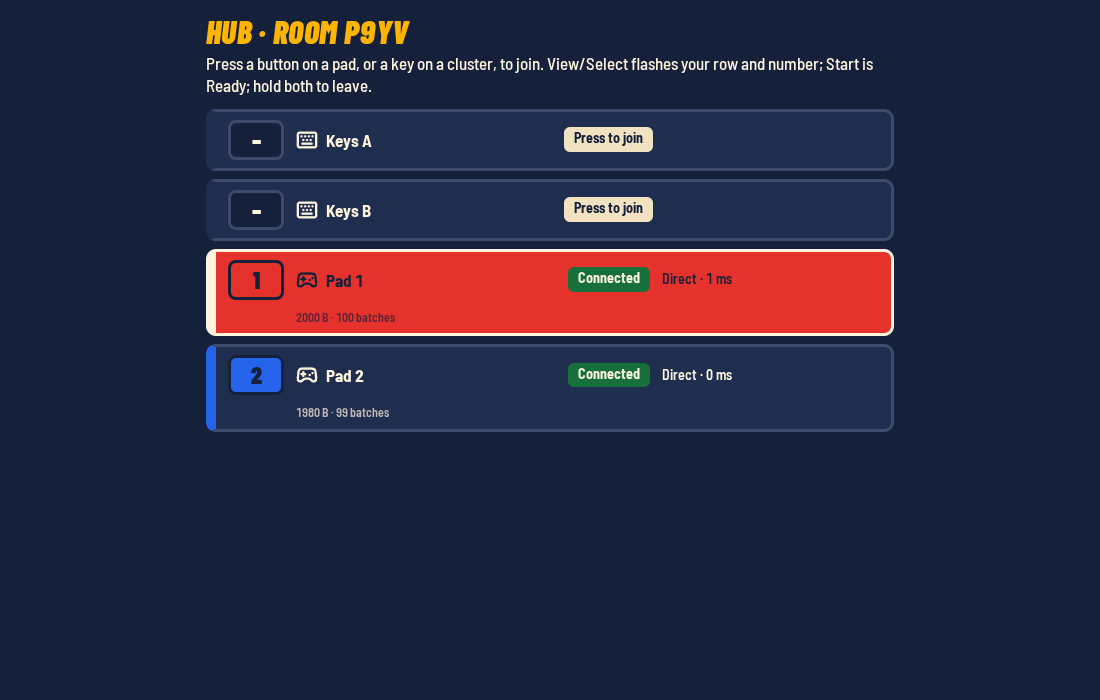
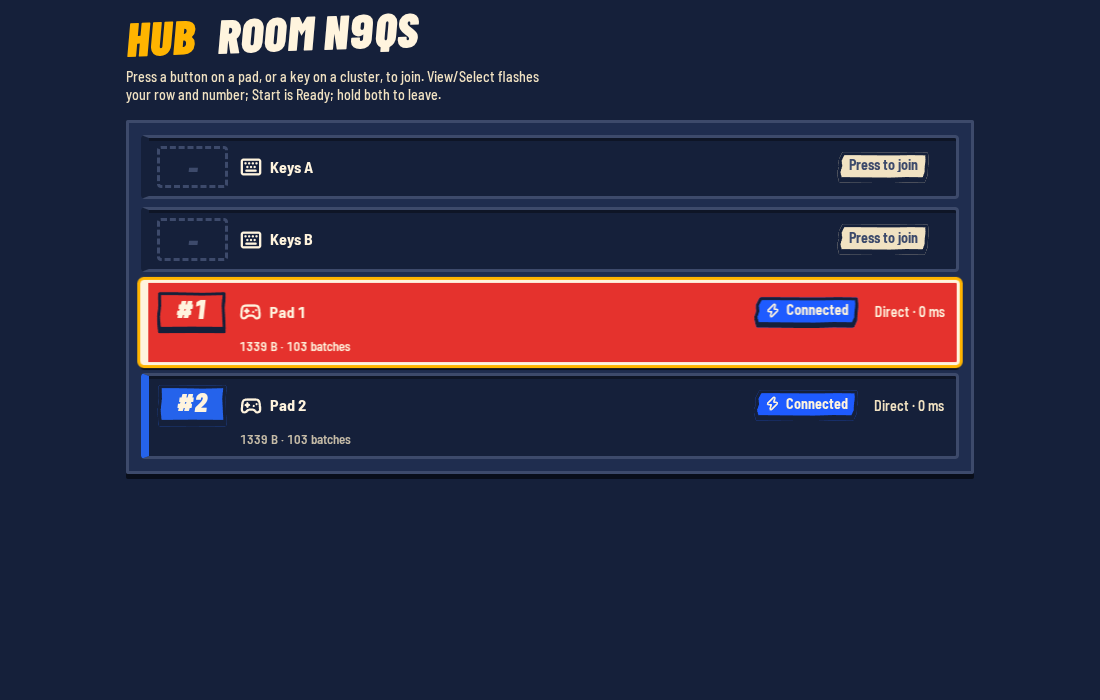
P1-C08: B/hub route (the hub's code entry), self-review and captures for the one-connection hub; P1-R06 self-review

Changed region(s): [[0.0927, 0.0, 0.8964, 0.69]]

diff --git a/web/controller/src/hub/hub.ts b/web/controller/src/hub/hub.ts
@@ -8,6 +8,7 @@
 // a `Session` attached to it (`Session.attach`) that claims, identifies, readies, leaves and drops out under its own
 // source handle (`ForSource`), and all their input shares the carrier's batches. A phone with a paired pad carries its pads
 // on the phone's own connection (the phone's sticks are the primary source).
+import { basePath } from '../../../shared/src/base';
 import { icon, tokenData } from '../../../shared/ui';
 import { Session } from '../app/session';
 import { pathLabel } from './badge';
@@ -349,4 +350,27 @@ export function pairPads(session: Session, tray: HTMLElement): Hub {
   hub.start();
   (window as unknown as { __jjHub: unknown }).__jjHub = { inspect: () => hub.inspect(), hub };
   return hub;
+}
+
+/** `B/hub`: ask for the room's code, then open the hub for it (`B/j/<CODE>?hub`). */
+export function mountHubEntry(root: HTMLElement): void {
+  root.innerHTML = `<section class="hub hub-entry" data-hub-entry>
+    <header class="hub-head"><h1 class="display italic">Hub</h1><p>Pads and keys on this device, one seat each. Type the room code from the big screen.</p></header>
+    <form class="panel panel-ink hub-panel" data-hub-form><label for="hub-code">Room code</label>
+    <input class="field code" id="hub-code" name="code" type="text" inputmode="text" autocomplete="off" autocapitalize="characters" autocorrect="off" spellcheck="false" enterkeyhint="go" maxlength="4" placeholder="ABCD" />
+    <p class="hub-entry-error" data-hub-error role="alert" hidden>That is not a room code: four letters or numbers.</p>
+    <button type="submit" class="btn primary big">Open the hub</button></form></section>`;
+  const form = root.querySelector<HTMLFormElement>('[data-hub-form]')!;
+  const input = root.querySelector<HTMLInputElement>('#hub-code')!;
+  const error = root.querySelector<HTMLElement>('[data-hub-error]')!;
+  form.addEventListener('submit', (e) => {
+    e.preventDefault();
+    const code = input.value.trim().toUpperCase();
+    if (!/^[A-Z0-9]{4}$/.test(code)) {
+      error.hidden = false;
+      return;
+    }
+    location.assign(`${basePath()}j/${code}?hub`);
+  });
+  input.focus();
 }

diff --git a/web/controller/src/main.ts b/web/controller/src/main.ts
@@ -26,6 +26,13 @@ function mountTray(): HTMLElement {
 async function boot(root: HTMLElement): Promise<void> {
   if (params.has('hello')) return (await import('./hello/hello')).mountHello(root);
   const code = codeFromPath();
+  // `B/hub`: the hub's own entry (C08), a room code then the hub page for it.
+  if (!code && /^hub\/?$/.test(location.pathname.slice(basePath().length))) {
+    applyProfile();
+    (await import('./hub/hub')).mountHubEntry(root);
+    document.documentElement.dataset.jjController = 'ready';
+    return;
+  }
   if (!code) {
     // No code in the URL: the landing page's join card asks for one.
     location.replace(basePath());

diff --git a/web/controller/src/hub/hub.css b/web/controller/src/hub/hub.css
@@ -51,3 +51,7 @@
 /* The phone's connection badge (the strip's [data-hud=conn]): the kit's brushed chip, small. */
 .conn.chip { min-height: 2em; margin-right: 10px; padding: 0 .9em .3em; font-size: var(--fs-caption); font-style: normal; text-transform: none; letter-spacing: 0; }
 .conn.chip .ic { width: 1.1em; height: 1.1em; }
+
+.hub-entry .hub-panel { display: grid; gap: 12px; padding: 16px; }
+.hub-entry .field.code { text-transform: uppercase; letter-spacing: .2em; text-align: center; font-size: 28px; }
+.hub-entry-error { color: var(--c-warn, #ffb4a8); margin: 0; }

diff --git a/crates/jj-server/src/app.rs b/crates/jj-server/src/app.rs
@@ -175,7 +175,7 @@ impl App {
         match (req.method.as_str(), rest) {
             (_, "") if get => self.bundle.page(Page::Landing),
             (_, "host" | "host/") if get => self.bundle.page(Page::Host),
-            (_, "c" | "c/") if get => self.bundle.page(Page::Controller),
+            (_, "c" | "c/" | "hub" | "hub/") if get => self.bundle.page(Page::Controller),
             (_, r) if get && r.starts_with("j/") && RoomCode::parse(&r[2..]).is_some() => {
                 self.bundle.page(Page::Controller)
             }

diff --git a/crates/jj-server/src/tests.rs b/crates/jj-server/src/tests.rs
@@ -167,6 +167,7 @@ fn serves_pages_and_immutable_assets_under_a_preview_base_with_real_404s() {
             ("", "landing"),
             ("host", "host"),
             ("c", "controller"),
+            ("hub", "controller"),
             ("j/ABCD", "controller"),
             ("j/abcd", "controller"),
         ] {

diff --git a/docs/evidence/P1-C08/self-review.md b/docs/evidence/P1-C08/self-review.md
@@ -4,6 +4,8 @@ Captures: `c08-hub.test.mjs` with `JJ_CAPTURE_DIR` on eris (Chromium, run `cap4`
 
 ## Looked at
 - Hub page: heading "Hub · room XXXX" with the one-line instructions, a row per source (seat number in its colour, keyboard or gamepad icon, label, state chip, direct/relay and RTT, bytes and batches). Idle key clusters read "Press to join" with a dash for the seat.
+- `c08-hub-four-sources-*` and `c08-hub-pad1-unplugged-1100x700.png`: six rows on one hub page (Keys A, Keys B, four pads) each with its number in its colour, Connected, "Direct · 3 ms" and its own bytes; with pad 1 unplugged only its row turns to the orange Unplugged chip with a dashed outline and the other five stay Connected. Resized to 390x844, 844x390 and 1920x1080 and back, all six rows stay readable.
+- `B/hub` entry (`c08-hub-entry-then-hub-1100x700.png`): a room-code field and "Open the hub"; a bad code shows the red line and stays.
 - Identify flash: only Pad 1's row turns its colour (red) with dark text, Pad 2 stays calm.
 - Phone with a paired pad: a slim tray low and centred between the sticks ("This phone" and "Pad 1", each with its number, icon and Connected chip); the strip shows the "Direct · 1 ms" badge. Landscape and portrait.
 
@@ -12,14 +14,15 @@ Captures: `c08-hub.test.mjs` with `JJ_CAPTURE_DIR` on eris (Chromium, run `cap4`
 - Row icons were solid squares (markup quoting); they are now added as elements.
 - The phone tray covered the sticks and the tutorial; now a slim touch-transparent list.
 - Seat badges rendered "#" as "//": badge shows the plain number.
-- A sixth simultaneous join stalled; sources now join one at a time and a stalled join retries after 12 s.
+- A sixth simultaneous join stalled (each source was its own connection); with one connection every source joins at once.
 
-## Remaining defects (protocol and server gaps, reported to the lead)
-- **Not one connection.** The protocol seats one endpoint with one seat (`jj-session` `Endpoint.seat`; Claim, Ready, Identify, Leave address the connection), so each hub source is its own endpoint with its own signalling stream and peer link. The AC "six seats over one connection" and the per-endpoint N08 receipt are unmet until the host supports a multi-source Claim.
-- **Browser connection limit.** Because of the above, a hub page holds one stream per source and HTTP/1.1 allows six per origin, so a single page carries five sources locally (the sixth's signalling queues). The six-seat journey therefore uses two hub pages (two browser contexts). Production is HTTP/2 and should not hit this; a shared connection removes it.
-- **No `/hub` server route**: the hub is `B/j/<CODE>?hub`; a real `/hub` needs a route in jj-server.
-- Input age is not reported per source (only bytes and batches).
-- Journey status at 03209e8 on eris (two copies at once, software WebGL): all three c08 journeys pass (six seats across two hubs with routing, unplug and host seat count; leave/Identify/rejoin; phone plus one paired pad). "Each drives only its own car" is asserted from the host's applied input: each driven source's car holds throttle > 0.5 with no autopilot, and each idle source's car holds zero throttle or is on autopilot (seats idle 15 s while racing get the IdleCue, then autopilot 3 s later). Car travel is only logged (`# driven {…}`): on a slow runner the autopilot cars pile up along the finite free-drive strip and can box the driven cars in, so the distance shows nothing about routing.
+## Remaining defects
+- **One connection (built, protocol 3).** A hub is one endpoint with a seat per source: `ControllerCmd::ForSource{source, cmd}` / `HostCmd::ForSource` wrap a source's commands and replies, `jj-session` keeps `endpoint.seats[source]`, the host wraps every message for a hub seat the same way, and the hub's sources share one `WasmEndpoint` (shared batches). The journey asserts one endpoint id, one link, six source handles, and the host's six seats on one endpoint. A phone with a paired pad rides its pads on the phone's own connection (the phone's sticks are the primary source 1). The old per-endpoint path is unchanged for phones.
+- Per-source bytes are the source's records in the shared batches (13 bytes each), its input age is the age of its latest sample (`inputAgeMs`), and the endpoint's batches and bytes are on the carrier; the log line `# per source` in the journey shows them. The host's own per-endpoint N08 receipt is the existing one (the connection is one endpoint).
+- The HUD (boost, host-paused) is not sent to hub sources (the state channel's HUD has no source field): a hub source shows Connected through a host pause rather than "Host paused".
+- A source leaving and pressing again gets its seat back (same number): the endpoint keeps the source's seat; before the change each rejoin was a new endpoint and a new number.
+- The phone-with-pad tray sits over the bottom of the tutorial card while the tutorial is open (seen in `c08-phone-with-pad-phone-landscape-844x390.png`); it is touch-transparent and the tutorial is dismissable, not fixed.
+- Journey status at f40ddd9 and after on eris: the four c08 journeys pass (six seats on one hub page with routing, unplug and host seat count; leave/Identify/rejoin; phone plus one paired pad; the `B/hub` entry). "Each drives only its own car" is asserted from the host's applied input (throttle > 0.5 with no autopilot for each driven source, zero or autopilot for each idle one); car travel is only logged.
 - A hub source whose room ends does not reset to "left".
 
 ## Not covered

diff --git a/docs/evidence/P1-R06/self-review.md b/docs/evidence/P1-R06/self-review.md
@@ -32,9 +32,10 @@ each host frame takes ~150 ms. The LAN measurement is a P1-Q02 checklist row.
 
 - On very small tiles (120 at 1080p) the Cooee label covers the tile's own badge row.
 - The mark over the car is a flat billboard drawn over everything; it doesn't outline the car's silhouette.
-- The phone's menu has no Identify entry (the phone's Identify is the button in its tools row).
 
 ## Not covered
+
+- The phone's menu Identify: the Help card (`c06-identify-menu.test.mjs`) and the settings sheet (same journey) each send the same Identify as the tools-row button; the host receives it for that seat. Not captured as an image.
 
 - Real phones, a real TV and a LAN: Chromium contexts on one Linux box.
 - A pad's View/Select and a key cluster's Identify key reach the same `SimEvent::Identify` path (P1-C05's input
